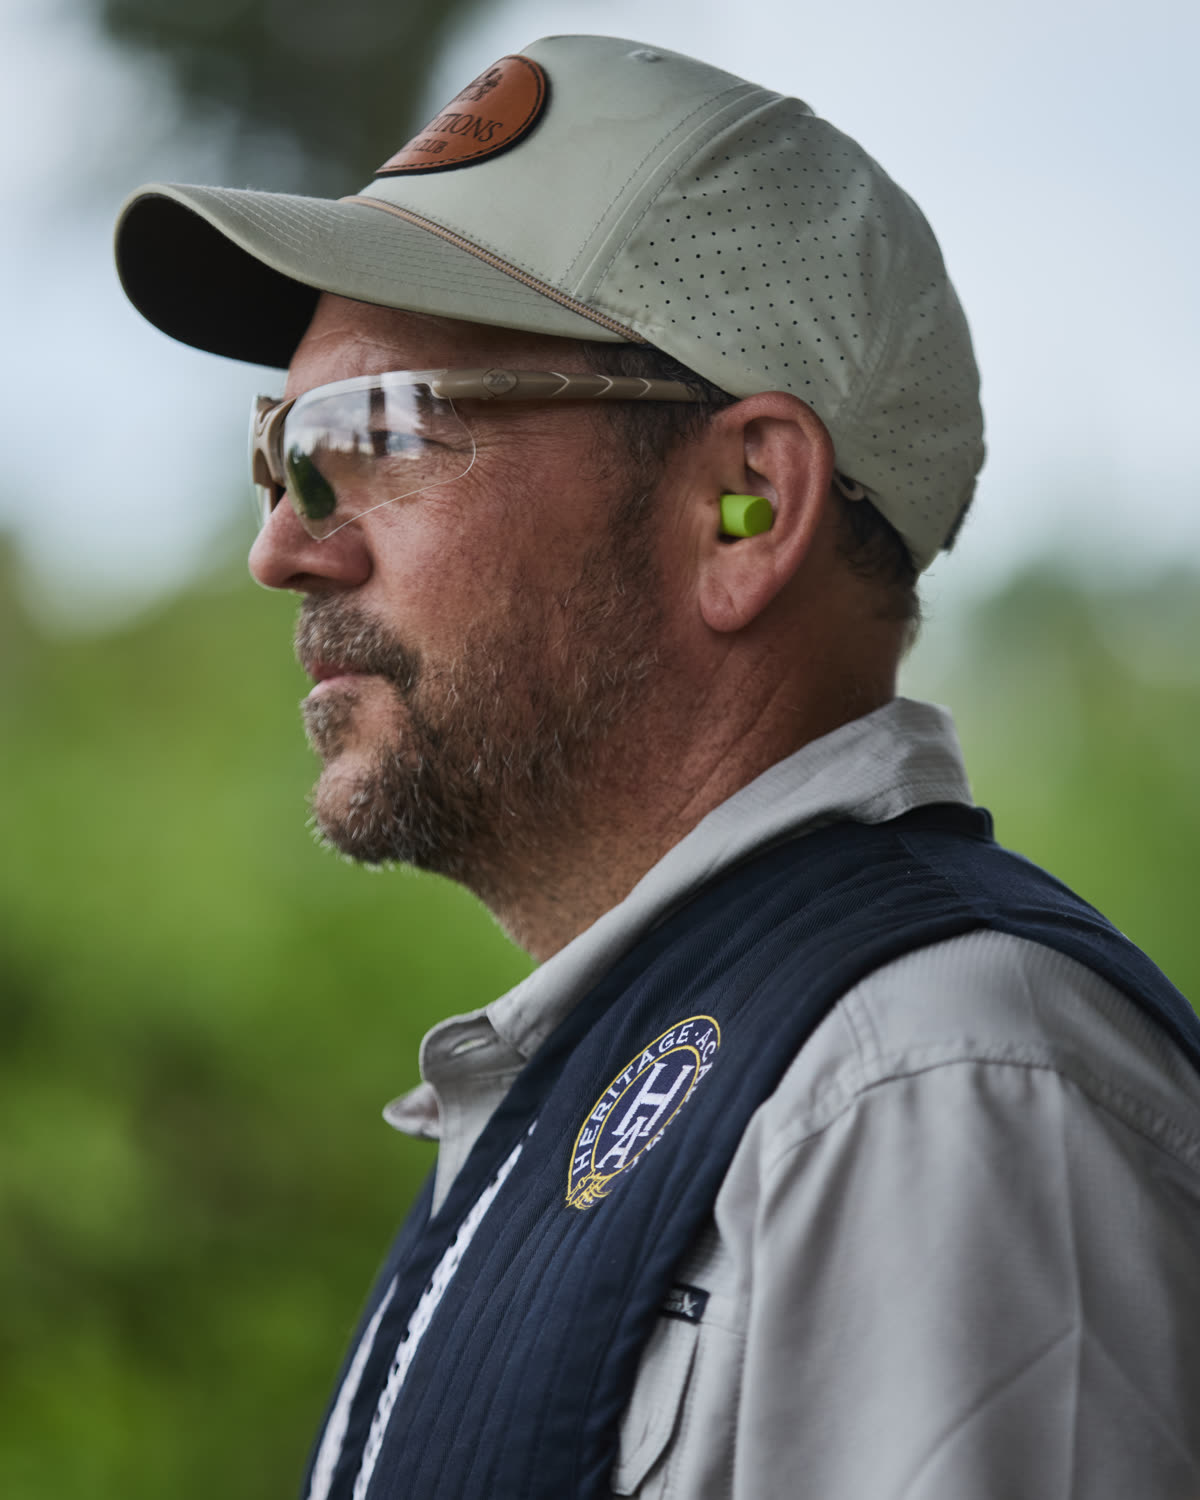
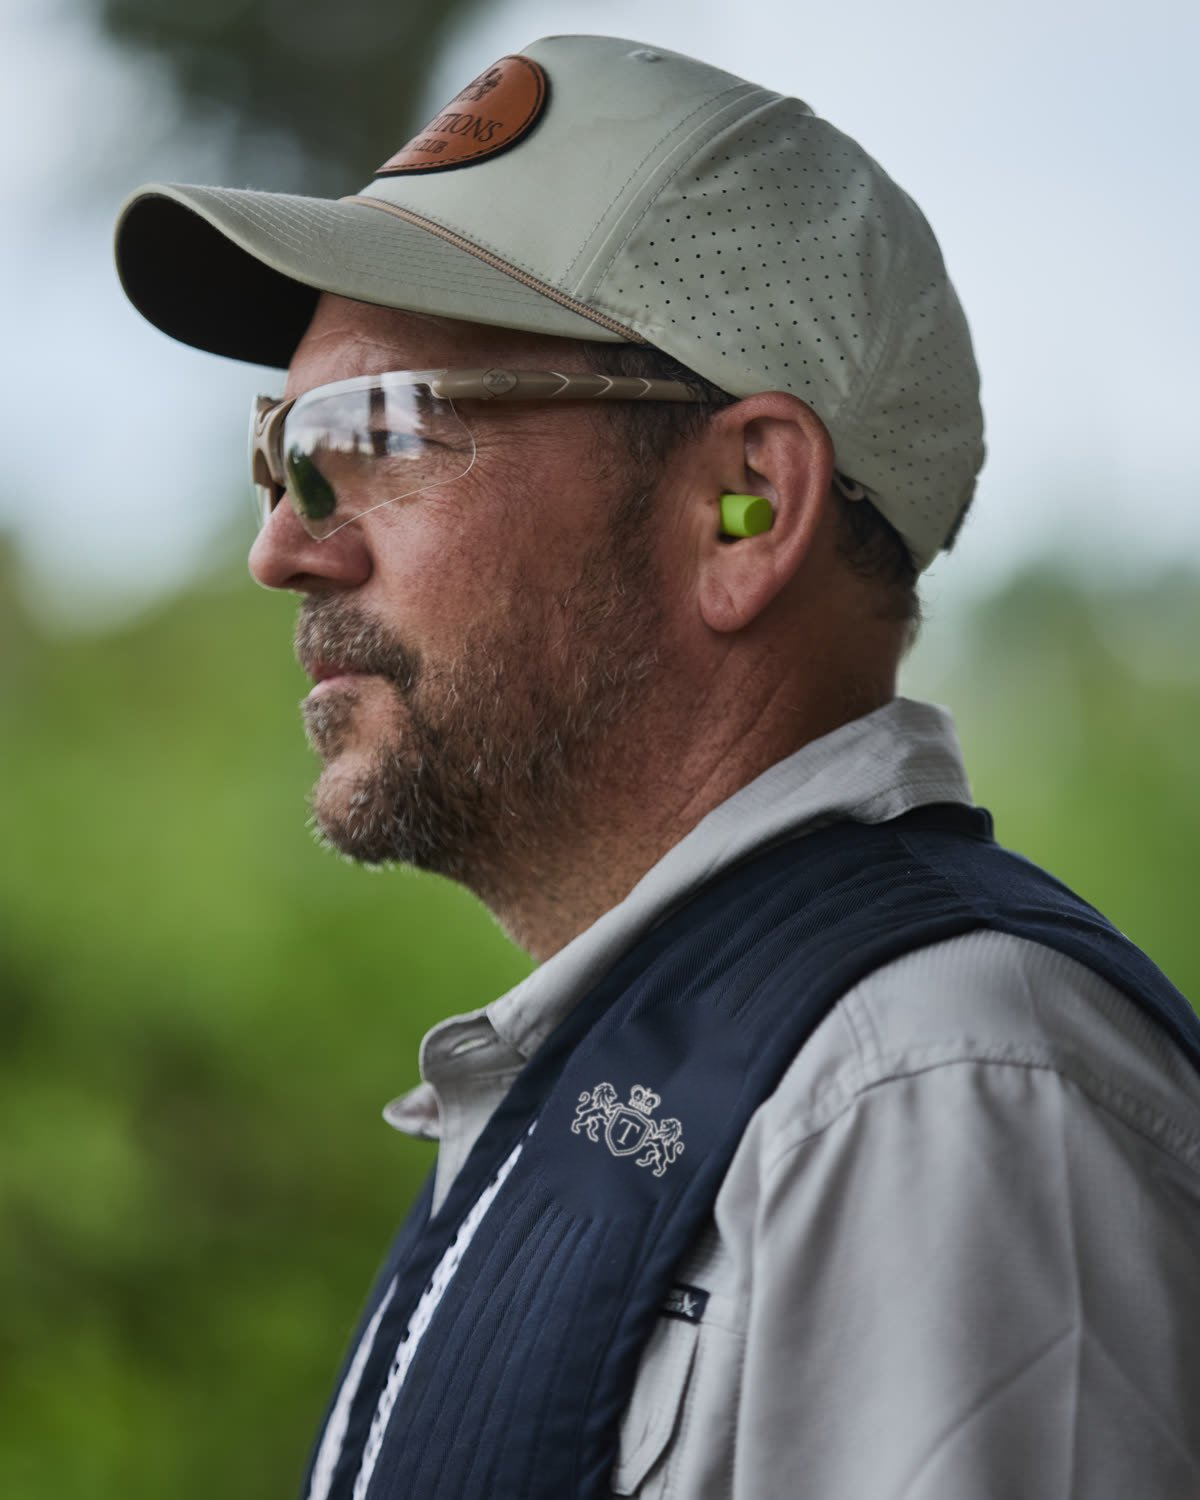
Traditions crest replaces Heritage patch on founder vests; scenic sunset stand replaces repeated shooter photo

Changed region(s): [[0.4625, 0.6747, 0.6167, 0.828]]

diff --git a/src/app/membership/page.tsx b/src/app/membership/page.tsx
@@ -197,7 +197,7 @@ export default function Membership() {
                 <Picture name="forest-trails-aerial" alt="Aerial view of the forest and trails at Traditions Field Club" imgClassName="absolute inset-0 w-full h-full object-cover" />
               </div>
               <div className="relative h-[240px] md:h-[300px] rounded-lg overflow-hidden">
-                <Picture name="photo-shooter-swing" alt="A shooter swinging on a target at a stand" imgClassName="absolute inset-0 w-full h-full object-cover object-top" />
+                <Picture name="sunset-stand" alt="A covered shooting stand at sunset at Traditions Field Club" imgClassName="absolute inset-0 w-full h-full object-cover object-bottom" />
               </div>
               <div className="relative h-[240px] md:h-[300px] rounded-lg overflow-hidden">
                 <Picture name="sunset-trail" alt="Sunset along a trail at Traditions Field Club" imgClassName="absolute inset-0 w-full h-full object-cover" />
